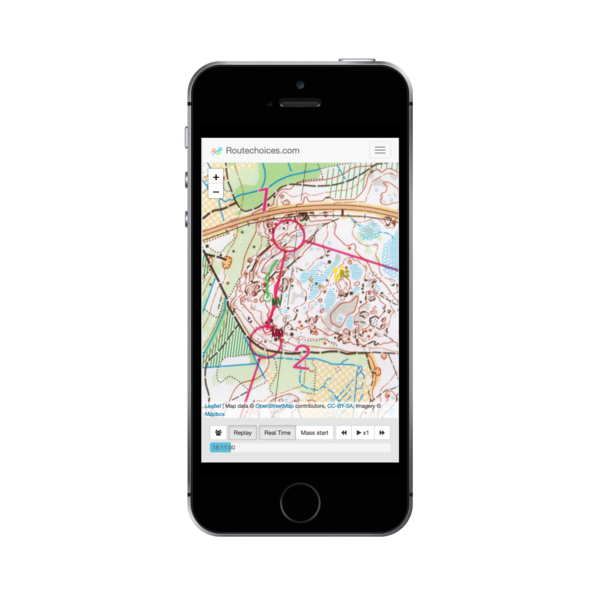
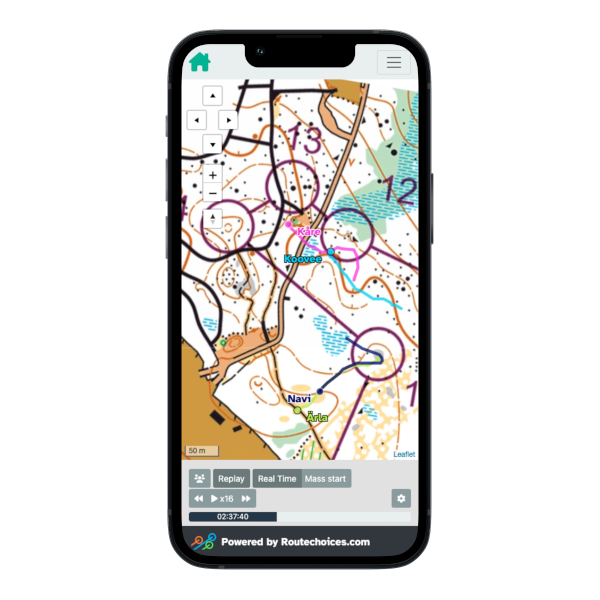
Update frontpage image for more modern phone

diff --git a/routechoices/templates/site/home.html b/routechoices/templates/site/home.html
@@ -11,7 +11,7 @@
 <div class="row" style="text-align: center">
     <h1 class="video_text_overlay" style="margin-top: 40px">Routechoices.com</h1>
     <h1 class="video_text_overlay" style="margin-bottom: -20px">Live GPS tracking solution for orienteering events</h1>
-    <p><img src="{% static 'img/iphone.png'%}" style="max-width:100%;max-height:600px;width: auto;height: auto;" alt="app on phone"/></p>
+    <p><img src="{% static 'img/iphone.png'%}?v=2022072900" style="max-width:100%;max-height:600px;width: auto;height: auto;" alt="app on phone"/></p>
     <h3 style="margin-bottom:1em"><a style="font-size: 1em;padding: 0.2em .5em;text-decoration: none;background: rgb(0,0,0,0.2);border-radius: 5px;" href="{% url 'site:events_view' %}"><i class="fa-solid fa-person-running"></i> Event List</a></h3>
     <hr style="color:#fff"/>
     {% if user.is_authenticated %}
